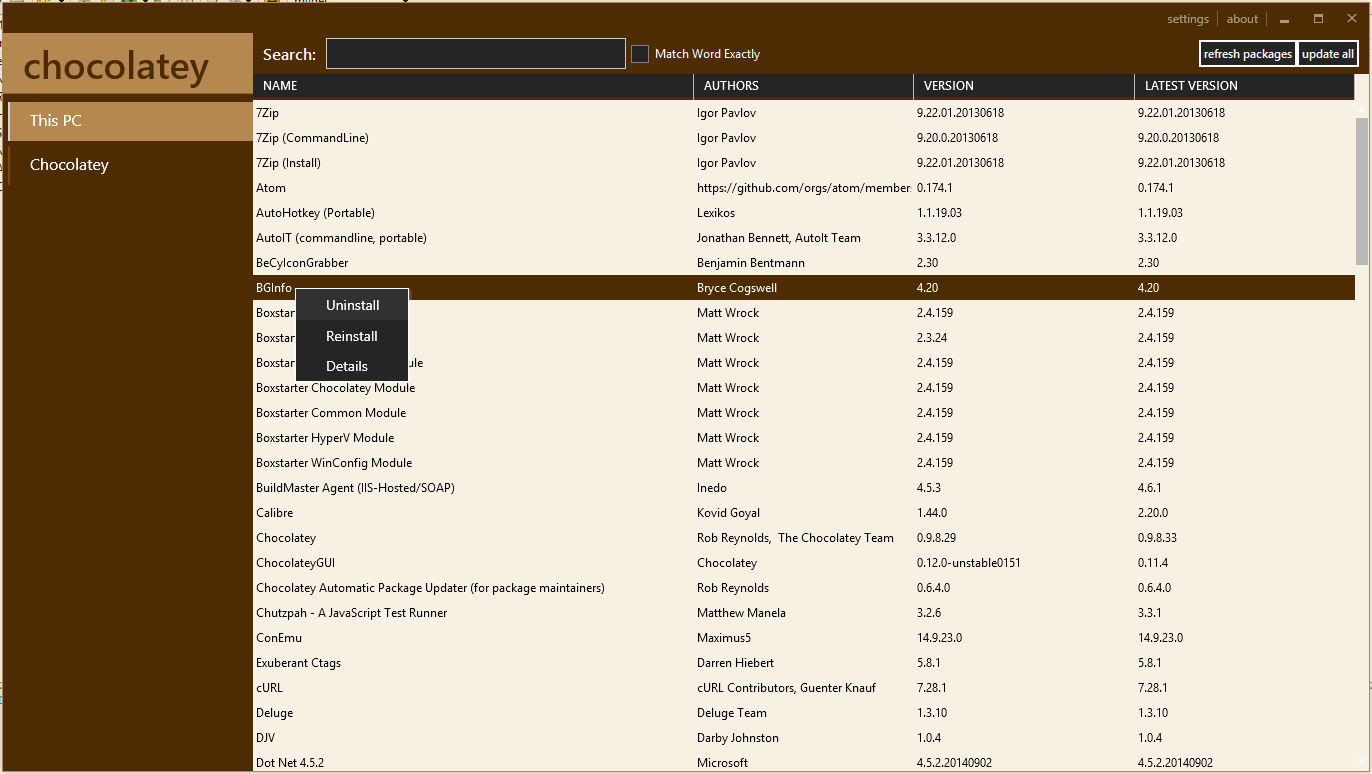
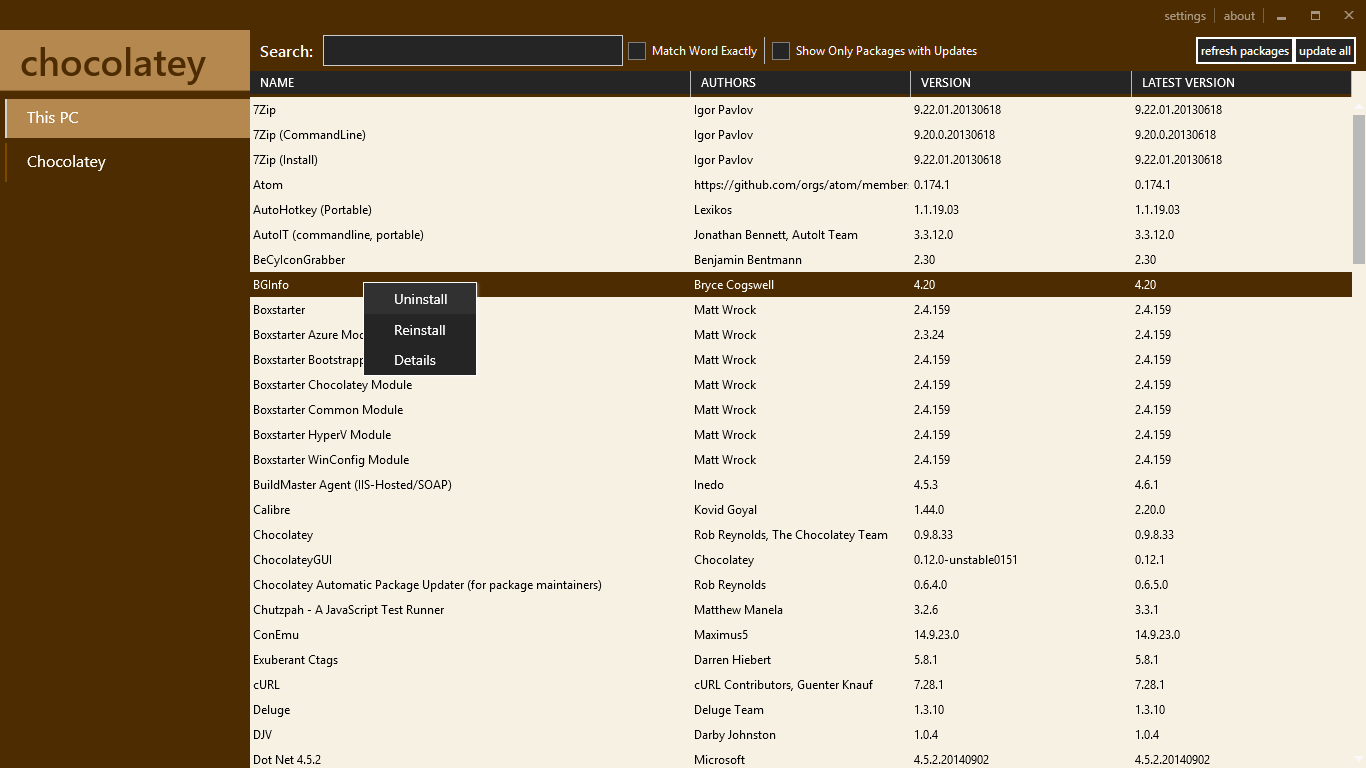
(GH-223) Ability to filter packages with update
- Based on suggestion from user, added the ability to filter the locally
installed packages based on whether an update on Chocolatey.org is
available
- Updated all screenshots to reflect change in UI

diff --git a/Source/ChocolateyGui/Views/Controls/LocalSourceControl.xaml b/Source/ChocolateyGui/Views/Controls/LocalSourceControl.xaml
@@ -18,6 +18,8 @@
             <Label Margin="5,0" FontSize="16" FontWeight="SemiBold" Target="{Binding ElementName=SearchTextBox}">Search: </Label>
             <TextBox x:Name="SearchTextBox" Width="300" Padding="0,2,0,-2" FontSize="14" Text="{Binding SearchQuery, UpdateSourceTrigger=PropertyChanged}"></TextBox>
             <CheckBox Name="MatchCheckBox" Margin="5" Content="Match Word Exactly" IsChecked="{Binding MatchWord}"/>
+            <Separator Style="{StaticResource {x:Static ToolBar.SeparatorStyleKey}}" />
+            <CheckBox Name="UpdatesCheckBox" Margin="5" Content="Show Only Packages with Updates" IsChecked="{Binding ShowOnlyPackagesWithUpdate}"/>
         </StackPanel>
         <StackPanel Grid.Row="0" Orientation="Horizontal" HorizontalAlignment="Right" VerticalAlignment="Center" Margin="10,5">
             <Button Command="{commands:DataContextCommandAdapter RefreshPackages, CanRefreshPackages}" Style="{StaticResource SquareButtonStyle}" Content="Refresh Packages"></Button>

diff --git a/Source/ChocolateyGui/ViewModels/Controls/LocalSourceControlViewModel.cs b/Source/ChocolateyGui/ViewModels/Controls/LocalSourceControlViewModel.cs
@@ -28,14 +28,11 @@ namespace ChocolateyGui.ViewModels.Controls
         private readonly List<IPackageViewModel> _packages;
         private readonly IProgressService _progressService;
         private bool _hasLoaded;
-
         private bool _matchWord;
+        private bool _showOnlyPackagesWithUpdate;
         private ObservableCollection<IPackageViewModel> _packageViewModels;
-
         private string _searchQuery;
-
         private string _sortColumn;
-
         private bool _sortDescending;
 
         public LocalSourceControlViewModel(IChocolateyService chocolateyService, IProgressService progressService, Func<Type, ILogService> logFactory)
@@ -56,8 +53,22 @@ namespace ChocolateyGui.ViewModels.Controls
 
         public bool MatchWord
         {
-            get { return this._matchWord; }
-            set { this.SetPropertyValue(ref this._matchWord, value); }
+            get
+            {
+                return this._matchWord;
+            }
+
+            set
+            {
+                this.SetPropertyValue(ref this._matchWord, value);
+                this.ShowOnlyPackagesWithUpdate = false;
+            }
+        }
+
+        public bool ShowOnlyPackagesWithUpdate
+        {
+            get { return this._showOnlyPackagesWithUpdate; }
+            set { this.SetPropertyValue(ref this._showOnlyPackagesWithUpdate, value); }
         }
 
         public ObservableCollection<IPackageViewModel> Packages
@@ -68,8 +79,16 @@ namespace ChocolateyGui.ViewModels.Controls
 
         public string SearchQuery
         {
-            get { return this._searchQuery; }
-            set { this.SetPropertyValue(ref this._searchQuery, value); }
+            get
+            {
+                return this._searchQuery;
+            }
+
+            set
+            {
+                this.SetPropertyValue(ref this._searchQuery, value);
+                this.ShowOnlyPackagesWithUpdate = false;
+            }
         }
 
         public string SortColumn
@@ -106,7 +125,7 @@ namespace ChocolateyGui.ViewModels.Controls
                 await this.LoadPackages();
 
                 Observable.FromEventPattern<PropertyChangedEventArgs>(this, "PropertyChanged")
-                    .Where(eventPattern => eventPattern.EventArgs.PropertyName == "MatchWord" || eventPattern.EventArgs.PropertyName == "SearchQuery")
+                    .Where(eventPattern => eventPattern.EventArgs.PropertyName == "MatchWord" || eventPattern.EventArgs.PropertyName == "SearchQuery" || eventPattern.EventArgs.PropertyName == "ShowOnlyPackagesWithUpdate")
                     .ObserveOnDispatcher()
                     .Subscribe(eventPattern => this.FilterPackages());
 
@@ -189,6 +208,11 @@ namespace ChocolateyGui.ViewModels.Controls
                              this.SearchQuery,
                              CompareOptions.OrdinalIgnoreCase) >= 0);
 
+                query.ToList().ForEach(this.Packages.Add);
+            }
+            else if (this.ShowOnlyPackagesWithUpdate)
+            {
+                var query = this._packages.Where(p => p.CanUpdate == true);
                 query.ToList().ForEach(this.Packages.Add);
             }
             else
